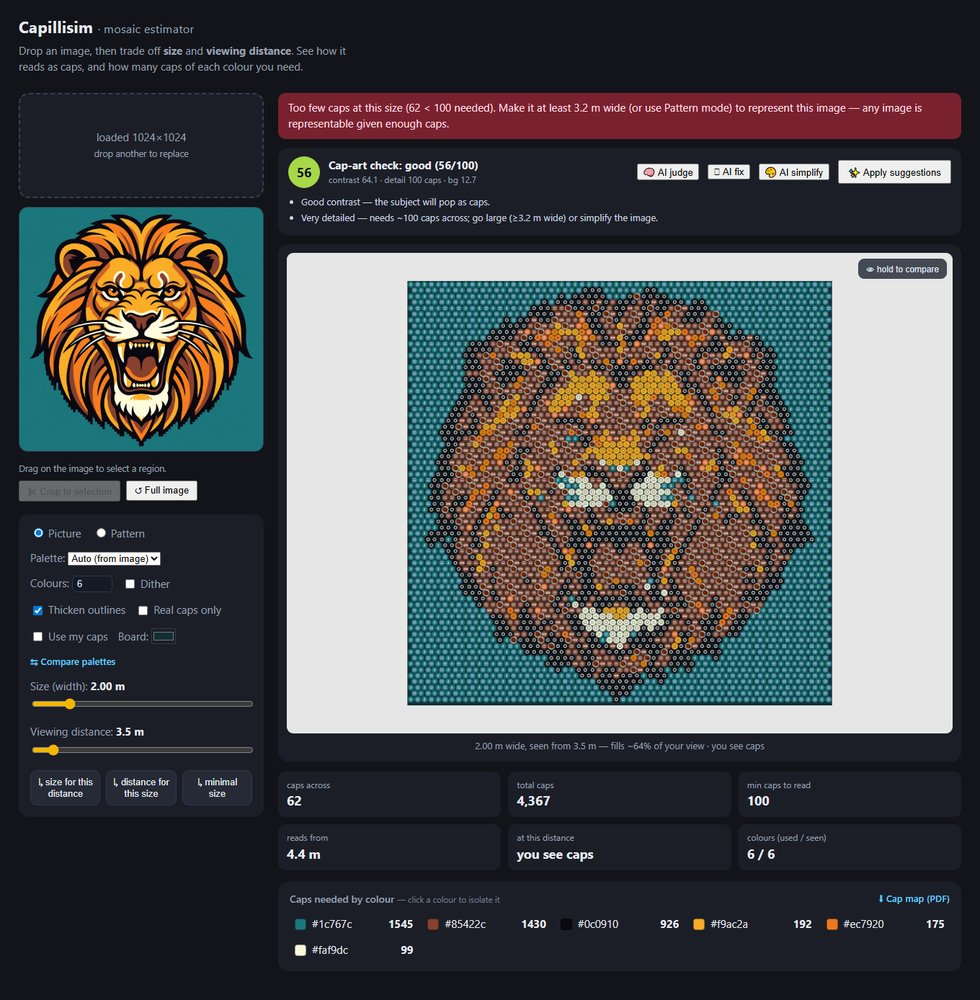
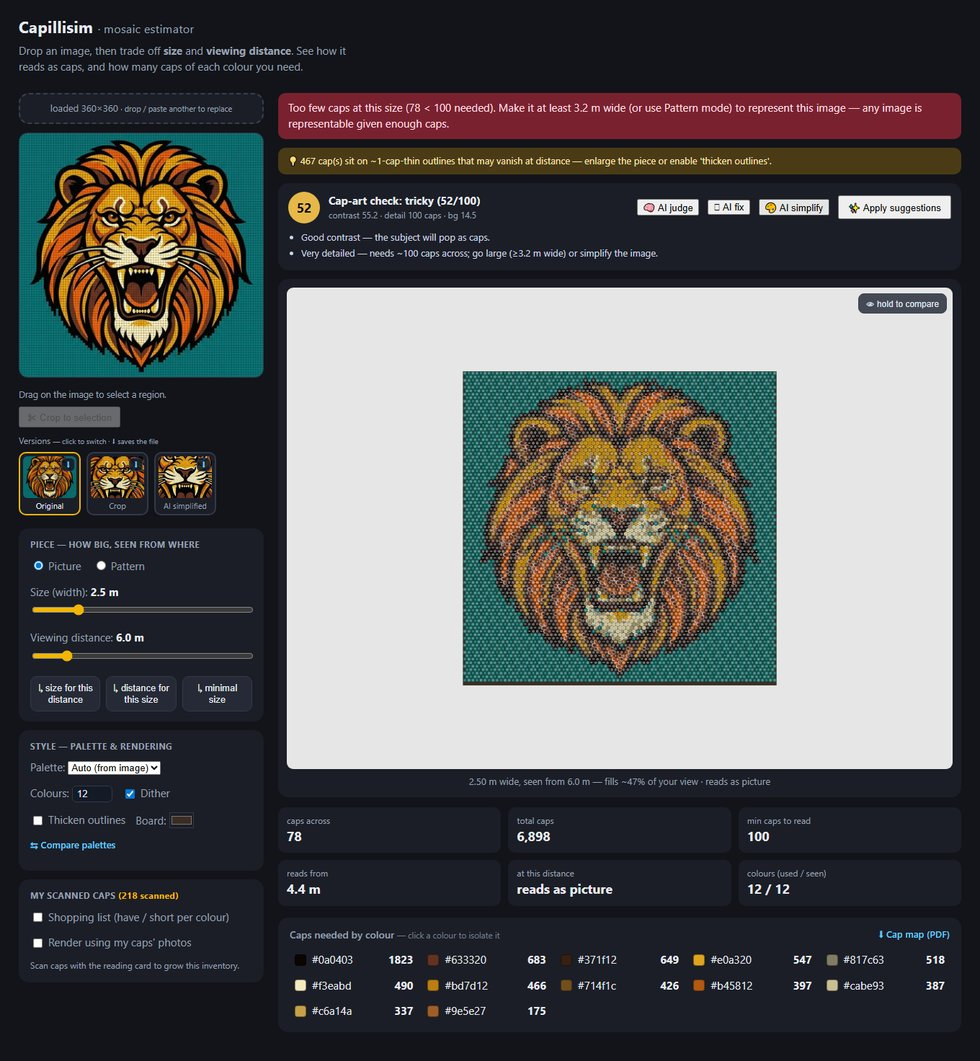
docs: Step 5 - UI overhaul docs + refreshed screenshots

diff --git a/docs/GUIDE.md b/docs/GUIDE.md
@@ -31,7 +31,13 @@ immediately clickable:
 
 **Getting your image in:** drag & drop, click to browse, or just **Ctrl/Cmd+V**
 paste from the clipboard. Drag a rectangle on the preview and hit **✂ Crop to
-selection** to build from only part of it (**↺ Full image** goes back).
+selection** to build from only part of it.
+
+**Versions.** Every derived image — crops, AI edits — appears as a thumbnail in
+the **version strip** under the preview (`Original · Crop · AI simplified`).
+Click a thumbnail to switch the whole app to that version; the active one is
+outlined; **⬇** on any tile saves that version as a file. Nothing is ever lost —
+the original is always one click away.
 
 ---
 
@@ -53,8 +59,8 @@ Then the two buttons that act on the verdict:
   snapshot next to the new simulation so you can compare.
 - **🎨 AI simplify** — the AI edits *the image itself* (qwen-image-edit):
   flattens it to ≤6 poster colours, thickens hairlines, cleans the background —
-  same subject, cap-friendly. The result is a **new** image; `↺ Full image`
-  always restores the original.
+  same subject, cap-friendly. The result lands as a new entry in the version
+  strip — switch back to the original (or save either) any time.
 
 ![before and after AI simplify](images/ai-simplify.jpg)
 
@@ -124,11 +130,14 @@ in `dataset/caps.db`.
 
 In the estimator:
 
-- **Use my caps** — the BOM gains *have / short* per colour plus a total
-  ("you own 96 of 4,367 needed") — your shopping list. Report only; the plan
-  is never silently constrained.
-- **Real caps only** — render the simulation using only photographed caps
-  (auto-cropped to uniform discs), for a preview in *your* caps.
+In the **My scanned caps (N)** group:
+
+- **Shopping list (have / short per colour)** — the BOM gains *have / short*
+  per colour plus a total ("you own 218 of 4,367 needed") — your shopping list.
+  Report only; the plan is never silently constrained.
+- **Render using my caps' photos** — draw the simulation from your photographed
+  caps (auto-cropped to uniform discs) instead of generated ones, for a preview
+  in *your* caps.
 - Click any BOM colour to **isolate** it — every other cap ghosts out so you
   see exactly where that colour goes.
 

diff --git a/docs/ESTIMATOR.md b/docs/ESTIMATOR.md
@@ -63,7 +63,8 @@ the target and only reads once you stand far enough that caps blend.
 - **Printable cap map** — `⬇ Cap map (PDF)` downloads a paint-by-numbers sheet
   (`app/cap_map.py`): a letter per colour on each cell, row/col rulers, and a
   legend (letter · hex · count). The artifact you actually build from.
-- **Inventory gap** — `Use my caps` matches your scanned `caps.db` against the
+- **Inventory gap** — `Shopping list (have / short per colour)` (in the "My
+  scanned caps" group) matches your scanned `caps.db` against the
   BOM (greedy nearest, CIEDE2000 ≤ 12) and shows *have · short* per colour plus
   *you own X of Y needed*. Report only — the plan is not constrained by stock.
 - **Cap-art check + AI judge** — every upload gets a heuristic score (contrast,
@@ -76,7 +77,8 @@ the target and only reads once you stand far enough that caps blend.
 - **AI simplify** — `🎨 AI simplify` (qwen-image-edit-plus) edits the image
   itself into a cap-friendly version — ≤6 flat colours, thickened lines, clutter
   removed, same subject — using the judge's own tips as the edit instruction.
-  Stored as a NEW image; `↺ Full image` restores the original. Opt-in per click.
+  Stored as a NEW image in the **version strip** (Original · crops · AI edits —
+  click to switch, ⬇ to save any version). Opt-in per click.
 
 ## Endpoints
 